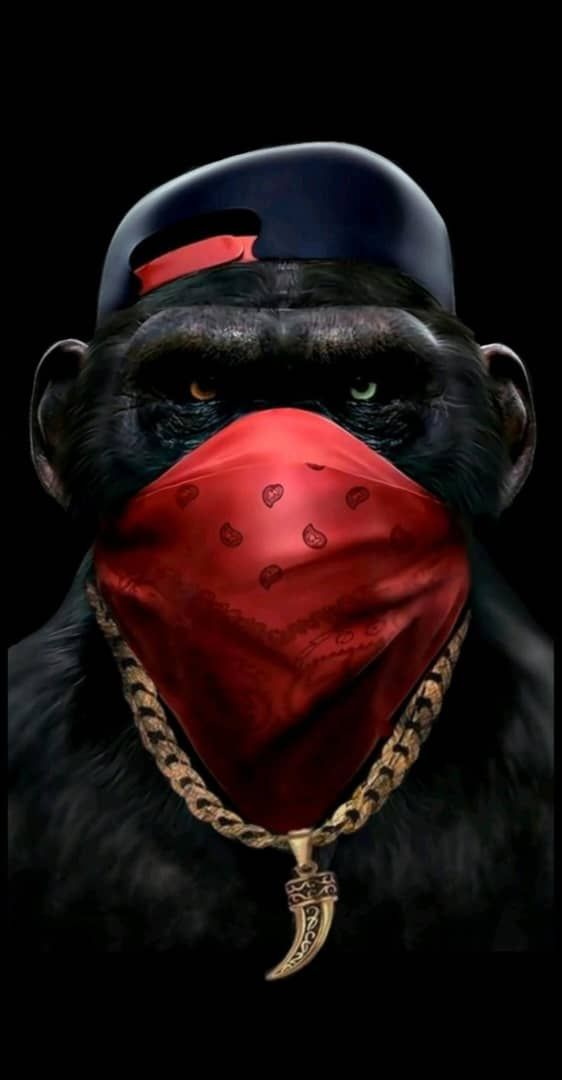
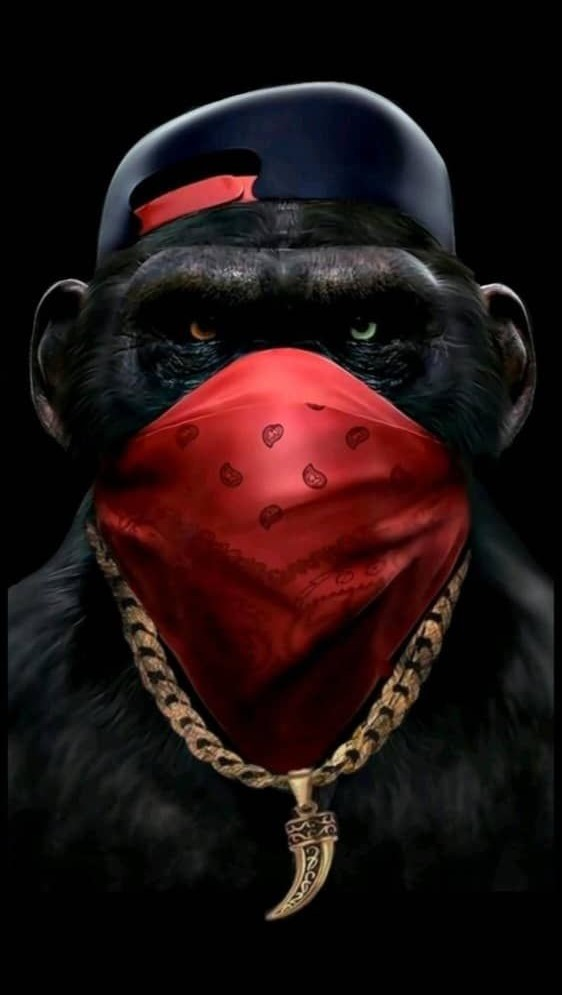
styled and responsive working

diff --git a/index.html b/index.html
@@ -182,30 +182,28 @@
             </p>
           </div>
         </div>
-        <div class="carousal-box">
-          <div behavior="scroll" direction="left" scrollmount="12">
-            <div class="papular-chimps">
-              <div class="chim-img-box">
-                <img src="./images/chimps/ch1.jpg" alt="" class="chimp-no">
-              </div>
-              <div class="chim-img-box">
-                <img src="./images/chimps/ch2.jpg" alt="" class="chimp-no">
-              </div>
-              <div class="chim-img-box">
-                <img src="./images/chimps/ch6.jpg" alt="" class="chimp-no">
-              </div>
-              <div class="chim-img-box">
-                <img src="./images/chimps/ch4.jpg" alt="" class="chimp-no">
-              </div>
-              <!-- <div class="chim-img-box">
+
+        <div class="papular-chimps row">
+          <div class="chim-img-box col-6 col-sm-6 col-md-3">
+            <img src="./images/chimps/ch1.jpg " alt="" class="chimp-no ">
+          </div>
+          <div class="chim-img-box col-6 col-sm-6 col-md-3">
+            <img src="./images/chimps/ch2.jpg" alt="" class="chimp-no">
+          </div>
+          <div class="chim-img-box col-6 col-sm-6 col-md-3">
+            <img src="./images/chimps/ch6.jpg" alt="" class="chimp-no">
+          </div>
+          <div class="chim-img-box col-6 col-sm-6 col-md-3">
+            <img src="./images/chimps/ch4.jpg" alt="" class="chimp-no">
+          </div>
+          <!--    <div class="chim-img-box">
                 <img src="./images/chimps/ch5.jpg" alt="" class="chimp-no">
               </div>
               <div class="chim-img-box">
                 <img src="./images/chimps/ch3.jpg" alt="" class="chimp-no">
               </div> -->
-            </div>
-          </div>
         </div>
+
       </div>
     </section>
   </div>
@@ -265,6 +263,21 @@
             </li>
 
           </ul>
+          <ul class="catogries">
+            <li class="marketplace-menu-item">
+              All
+            <li class="nav-item dropdown title-flex ">
+              <a class="nav-link nav-fonts dropdown-toggle white" href="#" id="navbarDropdown" role="button"
+                data-toggle="dropdown" aria-haspopup="true" aria-expanded="false">
+                Catogries
+              </a>
+              <div class="dropdown-menu" aria-labelledby="navbarDropdown">
+                <a class="dropdown-item nav-fonts" href="#">Art</a>
+                <a class="dropdown-item nav-fonts" href="#">Virtual</a>
+                <a class="dropdown-item nav-fonts" href="#">trending</a>
+            </li>
+
+          </ul>
         </div>
         <div class="marketplace-filter">
           <Button class="filter">Filter</Button>
@@ -274,33 +287,33 @@
   </div>
   <div class="bg-gradient-six">
     <section class="nft-cards container">
-      <div class="card-deck card-box">
+      <div class="card-deck card-box row">
         <div class="card border-cards">
           <div class="card-body">
             <h5 class="card-title white ">Trending </h5>
-            <i class='fas fa-external-link-square-alt white' style='font-size:32px'></i>
+            <i class='fas fa-external-link-square-alt white' style='font-size:2.5vw'></i>
           </div>
-          <img class="card-img-top" src="./images/NFT's/01.jpg" alt="Card image cap">
+          <img class="card-img-top" src="./images/NFT's/10.jpg" alt="Card image cap">
 
         </div>
         <div class="card border-cards">
           <div class="card-body">
             <h5 class="card-title white">Trending</h5>
-            <i class='fas fa-external-link-square-alt white' style='font-size:32px'></i>
+            <i class='fas fa-external-link-square-alt white' style='font-size:2.5vw'></i>
           </div>
           <img class="card-img-top" src="./images/NFT's/02.jpg" alt="Card image cap">
         </div>
         <div class="card border-cards">
           <div class="card-body">
             <h5 class="card-title white">Trending</h5>
-            <i class='fas fa-external-link-square-alt white' style='font-size:32px'></i>
+            <i class='fas fa-external-link-square-alt white' style='font-size:2.5vw'></i>
           </div>
           <img class="card-img-top" src="./images/NFT's/03.jpg" alt="Card image cap">
         </div>
         <div class="card border-cards">
           <div class="card-body">
             <h5 class="card-title white">Trending</h5>
-            <i class='fas fa-external-link-square-alt white' style='font-size:32px'></i>
+            <i class='fas fa-external-link-square-alt white' style='font-size:2.5vw'></i>
           </div>
           <img class="card-img-top" src="./images/NFT's/04.jpg" alt="Card image cap">
         </div>
@@ -309,7 +322,7 @@
         <div class="card border-cards">
           <div class="card-body">
             <h5 class="card-title white ">Trending </h5>
-            <i class='fas fa-external-link-square-alt white' style='font-size:32px'></i>
+            <i class='fas fa-external-link-square-alt white' style='font-size:2.5vw'></i>
           </div>
           <img class="card-img-top" src="./images/NFT's/06.jpg" alt="Card image cap">
 
@@ -317,21 +330,21 @@
         <div class="card border-cards">
           <div class="card-body">
             <h5 class="card-title white">Trending</h5>
-            <i class='fas fa-external-link-square-alt white' style='font-size:32px'></i>
+            <i class='fas fa-external-link-square-alt white' style='font-size:2.5vw'></i>
           </div>
           <img class="card-img-top" src="./images/NFT's/07.jpg" alt="Card image cap">
         </div>
         <div class="card border-cards">
           <div class="card-body">
             <h5 class="card-title white">Trending</h5>
-            <i class='fas fa-external-link-square-alt white' style='font-size:32px'></i>
+            <i class='fas fa-external-link-square-alt white' style='font-size:2.5vw'></i>
           </div>
           <img class="card-img-top" src="./images/NFT's/08.jpg" alt="Card image cap">
         </div>
         <div class="card border-cards">
           <div class="card-body">
             <h5 class="card-title white">Trending</h5>
-            <i class='fas fa-external-link-square-alt white' style='font-size:32px'></i>
+            <i class='fas fa-external-link-square-alt white' style='font-size:2.5vw'></i>
           </div>
           <img class="card-img-top" src="./images/NFT's/09.jpg" alt="Card image cap">
         </div>
@@ -362,7 +375,7 @@
           </div>
           <div class="instrections">
             <p class="second"><span class="number">02 </span>&nbsp; List them for Sale</p>
-          <p class="third"><span class="number">03 </span>&nbsp; Create our artwork</p>
+            <p class="third"><span class="number">03 </span>&nbsp; Create our artwork</p>
           </div>
         </div>
         <div class="creator-right">
@@ -371,7 +384,7 @@
       </div>
     </section>
   </div>
-  <div class="g-gradient-nine">
+  <div class="bg-gradient-nine">
     <section class="newslatter container">
       <div class="main-newslatter-box">
         <div class="image">

diff --git a/style.css b/style.css
@@ -138,7 +138,13 @@ img.chimps-image {
     background-image: linear-gradient(180deg, #020129,  #040350);
 }
 .bg-gradient-six{
-    background-image: linear-gradient(180deg, #040350, #0300e5);
+    background-image: linear-gradient(180deg, #040350, #0300e5, #03023f);
+}
+.bg-gradient-seven{
+    background-image: linear-gradient(180deg,  #03023f, #030127);
+}
+.bg-gradient-nine{
+    background-image: linear-gradient(180deg,  #030127, #000000);
 }
 .artists-nav{
     display: flex;
@@ -304,9 +310,16 @@ li.nav-item.dropdown.title-flex {
 
 li.marketplace-menu-item {
     color: white;
-    padding: 0% 3%;
-    border: solid 1px #ffffff87;
-    border-radius: 24px;
+     padding: 0% 3%;
+  /*  border: solid 1px #ffffff87;
+    border-radius: 24px; */
+}
+ul.catogries {
+    list-style-type: none;
+    display: flex;
+    flex-direction: row;
+    align-items: end;
+    display: none;
 }
 
 button.filter {
@@ -365,6 +378,7 @@ img.card-img-top {
 
 h5.card-title.white {
     margin: 0px;
+    font-size: 1.6vw;
 }
 .card-deck.card-box {
     padding-top: 3%;
@@ -374,7 +388,7 @@ h5.card-title.white {
 }
 
 img.chimp-no {
-    height: 80vh;
+    width: 100%;
     padding: 5%;
     border-radius: 36px;}
 
@@ -389,6 +403,10 @@ img.chimp-no {
         flex-direction: row;
         justify-content: space-between;
         align-items: center;
+        padding: 22px;
+    }
+    .the-logo {
+        width: 11vw;
     }
     
     h2.creator-heading {
@@ -497,6 +515,56 @@ img.chimp-no {
         left: 144px;
     
     }
+ }
+ @media only screen and (max-width: 768px) 
+{
+    ul.catogries{
+        display: flex;
+    }
+    ul.marketplace-menu-list {
+        display: none;
+    }
+    img.the-logo {
+        width: 15vw;
+    }
+ }
+ @media only screen and (max-width: 576px) 
+{
+    p.artist-name.white {
+        font-size: 11px;
+    }
+    
+    a.artist-ranking.white {
+        font-size: 10px;
+    }
+    
+    p.sales-count.white {
+        font-size: 11px;
+    }
+    
+    h2.popular-work-title.white {
+        font-size: 9vw;
+    }
+    
+    p.popular-art-content.white {
+        font-size: 3vw;
+        text-align: center;
+    }
+    div.border-cards {
+        display: contents;
+    }
+
+    .card.border-cards {
+    
+        display: flex;
+        flex-direction: column;
+        align-self: center;
+    
+    }
+    h5.card-title.white {
+        font-size: 5vw;
+    }
+
  }
 
 
